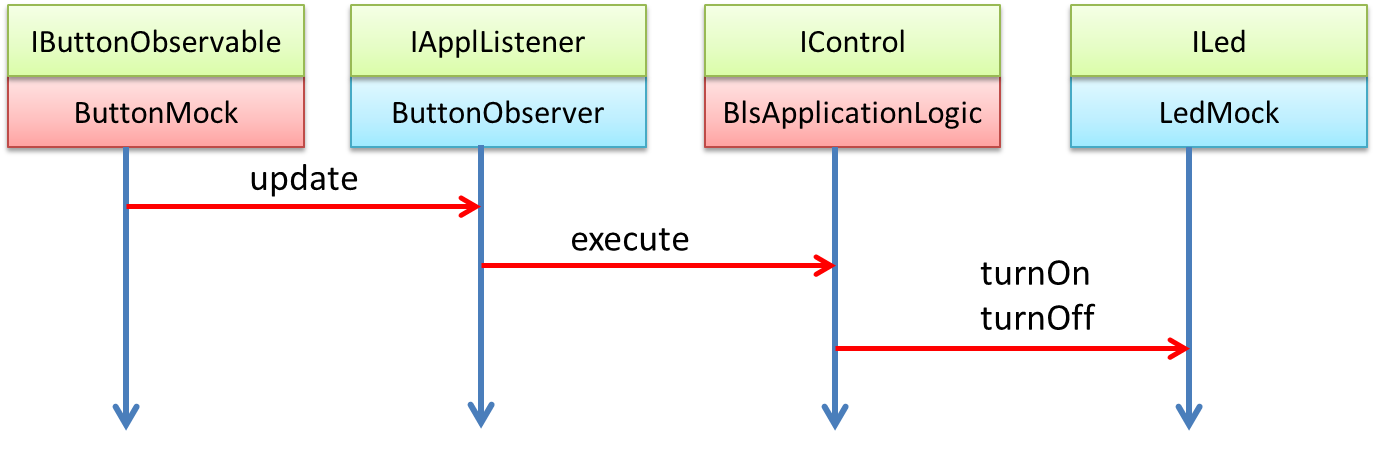
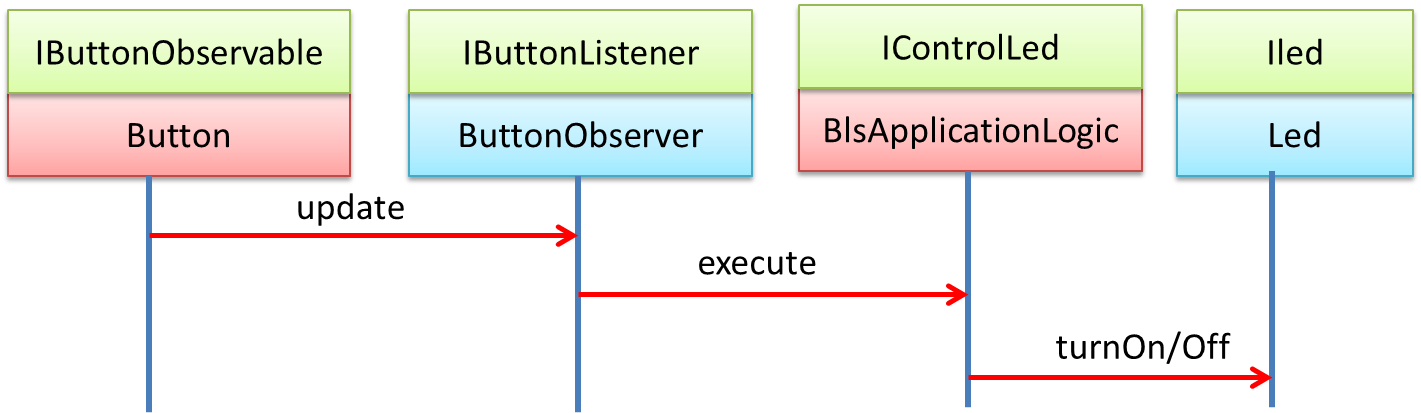
bls framework jacoco

diff --git a/it.unibo.bls19Local/userDocs/Lab3.html b/it.unibo.bls19Local/userDocs/Lab3.html
@@ -125,7 +125,7 @@ table, th, td {
 
 <div class="body"> 
 
-<h1>72939 - LAB3 | A ButtonLedSystem application framework</h1> 
+<h1>72939 - LAB3 | A ButtonLedSystem framework</h1> 
 <a href="http://infolab.ingce.unibo.it/iss2018/it.unibo.issMaterial/issdocs/Material/LectureBologna1819.html" target="isslm">LabSS-lectures site</a></font> 
 
 <h2>REQUIREMENTS</h2>
@@ -170,6 +170,8 @@ is also defined as an <em>observer</em>.
 <ul>
 <li><a href="../src/main/java/it/unibo/blsFramework/interfaces/IButtonModel.java" target="code">IButtonModel</a></li>
 <li><a href="../src/main/java/it/unibo/blsFramework/interfaces/ILedModel.java" target="code">ILedModel</a></li>
+<li><a href="../src/main/java/it/unibo/blsFramework/interfaces/IAppLogic.java" target="code">IAppLogic</a></li>
+<li><a href="../src/main/java/it/unibo/blsFramework/interfaces/IApplListener.java" target="code">IApplListener</a></li>
 <li><a href="../src/main/java/it/unibo/blsFramework/interfaces/IBlsFramework.java" target="code">IBlsFramework</a></li>
 </ul>	
 	</td>
@@ -231,7 +233,7 @@ of a state change in a  <tt>concrete Button</tt>.
  <a href="../src/main/java/it/unibo/blsFramework/concreteDevices/LedObserver.java" target="code">LedObserver</a>
  as an <a href="https://en.wikipedia.org/wiki/Adapter_pattern">adapter</a> between the 
 <a href="../src/main/java/it/unibo/blsFramework/models/LedModel.java" target="code">LedModel</a> a concrete <tt>Led</tt>;</li>
- <li>we can reuse the application logic 
+ <li>we can also reuse the application logic 
 <a href="../src/main/java/it/unibo/blsFramework/applLogic/BlsApplicationLogic.java" target="code">BlsApplicationLogic</a> 
 with little change, since it must make reference to a 
 <a href="../src/main/java/it/unibo/blsFramework/interfaces/ILedModel.java" target="code">ILedModel</a> rather than  to a 
@@ -239,10 +241,7 @@ with little change, since it must make reference to a
  
  </ul>
  
- 
- 
- 
- 
+  
  <h2>THE NEW FEATURES</h2>
 The main result of our model-based re-factoring of the <tt>BLS</tt> system can be summarized as follows:
 
@@ -293,7 +292,28 @@ public static void main(String[] args) {
 	}
 </pre>
   
+ <h2>TESTING / JaCoCo</h2>
+A possible integration test is reported in
+	<a href="../src/test/java/it/unibo/bls/integration/TestBlsFramework.java" target="code">TestBlsFramework.java</a>
+<br/><br/>	
+Execute <bc>gradle test</bc> and look at 
+	<a href="../build/reports/tests/test/index.html" target="code">build/report/tests/test/index.html</a>	
+	
+	
+<h3>JaCoCo</h3>
+<ol>
+<li>In <a href="../build.gradle" target="code">build.gradle</a> add the 
+<a href="https://docs.gradle.org/current/userguide/jacoco_plugin.html" target="webb">JaCoCo plugin</a> 
+(<a href="https://www.youtube.com/watch?v=ieYs0hkogVY">Video on JaCoCo</a>)</li>
+<li>The command <bc>gradle build</bc> executes the tests and <tt>JaCoCo</tt> create the binary file <tt>text.exec</tt> in <tt>build/jacoco</tt></li>
 
+<li>Execute <bc>gradle build jacocoTestReport</bc> to generate a readable report and look at
+<a href="../build/reports/jacoco/test/html/index.html" target="code">build/reports/jacoco/test/html/index.html</a>
+
+</li>
+</ol>
+	
+	<br/><br/>
 	
 </div>  
 

diff --git a/it.unibo.bls19Local/userDocs/Lab1.html b/it.unibo.bls19Local/userDocs/Lab1.html
@@ -214,9 +214,9 @@ Led state=true
 	<ul>
 	<li>Execute <bc>gradle test</bc> and look at 
 	<a href="../build/reports/tests/test/index.html" target="code">build/report/tests/test/index.html</a></li>
-	<li>Unit testing: <a href="../src/test/java/it/unibo/bls/components/TestLed.java" target="code">TestLed.java</a>,
+	<li><em>Unit testing</em>: <a href="../src/test/java/it/unibo/bls/components/TestLed.java" target="code">TestLed.java</a>,
 	<a href="../src/test/java/it/unibo/bls/components/TestButton.java" target="code">TestButton.java</a></li>
-	<li>Integration testing: <a href="../src/test/java/it/unibo/bls/integration/TestBlsMock.java" target="code">TestBlsMock.java</a> </li>
+	<li><em>Integration testing</em>: <a href="../src/test/java/it/unibo/bls/integration/TestBlsMock.java" target="code">TestBlsMock.java</a> </li>
 	</ul>
 
 	<h3>Looking at the code</h3>
@@ -269,7 +269,7 @@ Led state=true
 		<li><em>Observers</em>: The <tt>Application logic</tt> is put in execution by a component 
 		(<a href="../src/main/java/it/unibo/bls/listener/ButtonObserver.java" target="code">ButtonObserver</a>) 
 		that acts as an observer of the state of the <tt>Button</tt>, by implementing the interface 
-		<a href="../src/main/java/it/unibo/bls/interfaces/IApplListener.java" target="code">IApplListener</a> that extends 
+		<a href="../src/main/java/it/unibo/bls/interfaces/IButtonListener.java" target="code">IButtonListener</a> that extends 
 		<a href="../src/main/java/it/unibo/bls/interfaces/IObserver.java" target="code">IObserver</a> 
 		(a warpper of the built-in <tt>java.util.Observer</tt>).</li>
 		<li><em>Dependency injection</em>:The final software system is created by

diff --git a/it.unibo.bls19Local/userDocs/Lab2.html b/it.unibo.bls19Local/userDocs/Lab2.html
@@ -155,7 +155,7 @@ of that system, to recall its properties from three different points of view:  <
 <h4>A logic architecture</h4>
 As already, proposed in <a href="Lab1.html" target="info">Lab1.html</a>, the following <tt>UML</tt> interaction diagram 
 can give us a summary of our model of the current software system:
-<center><img src="./blsLogic0.png" alt="gradlew" width="60%" height="60%"></center>
+<center><img src="./bls0.png" alt="blsLogic0" width="60%" height="60%"></center>
 
 This model can be adopted as a representation of the <b>logic architecture</b> of our <tt>BLS</tt> system. 
 It is technology-aware (since it is based on objects) but it is also quite technology-independent since there is no
@@ -313,7 +313,7 @@ can be re-used - by means of the <tt>Java</tt> <em>inheritance</em> - in order t
 be reused - by means of the <tt>Java</tt> <em>inheritance</em> - to build the <tt>BLS</tt> system. The only thing to do
 is to override the method <bc>setDeviceTypes</bc>.
 </li>
-
+<br/><br/>
 Now, we could consider the possibility to re-factor the system, so to define a <em>reusable framework</em> for <tt>BLS</tt> applications
 that can be specialized without recurring to  inheritance.
 </ul>

diff --git a/it.unibo.bls19Local/src/main/java/it/unibo/bls/appl/MainBlsMockBase.java b/it.unibo.bls19Local/src/main/java/it/unibo/bls/appl/MainBlsMockBase.java
@@ -8,13 +8,13 @@ import it.unibo.bls.interfaces.*;
 import it.unibo.bls.kotlin.applLogic.BlsApplicationLogic;	//KOTLIN IMPL
 import it.unibo.bls.listener.ButtonObserver;
 import it.unibo.bls.utils.Utils;
-import it.unibo.bls.interfaces.IApplListener;
+import it.unibo.bls.interfaces.IButtonListener;
 
 
 public class MainBlsMockBase  {
 	protected IButtonObservable btn;
 	protected ILed led;
-	protected IApplListener buttonObserver;
+	protected IButtonListener buttonObserver;
 	protected IControlLed applLogic;
 	protected DeviceFactory devFactory = new DeviceFactory();
 	protected LedType ledType ;
@@ -59,7 +59,7 @@ public class MainBlsMockBase  {
 	public ILed getLed(){
 		return led;
 	}
-	public IApplListener getButtonObserver(){
+	public IButtonListener getButtonObserver(){
 		return buttonObserver;
 	}
 	public IControlLed getApplLogic(){

diff --git a/it.unibo.bls19Local/src/main/java/it/unibo/bls/listener/ButtonObserver.java b/it.unibo.bls19Local/src/main/java/it/unibo/bls/listener/ButtonObserver.java
@@ -1,10 +1,10 @@
 package it.unibo.bls.listener;
 
-import it.unibo.bls.interfaces.IApplListener;
+import it.unibo.bls.interfaces.IButtonListener;
 import it.unibo.bls.interfaces.IControlLed;
 import java.util.Observable;
 
-public class ButtonObserver  implements IApplListener {
+public class ButtonObserver  implements IButtonListener {
 private IControlLed controller;
 	private int count   = 0;
 //Factory method
@@ -21,7 +21,7 @@ private IControlLed controller;
 		return count;
 	}
 
-	@Override  //from IApplListener IObserver -> Observer
+	@Override  //from IButtonListener IObserver -> Observer
 	public void update( Observable source, Object state ){
 		count++;
 		//System.out.println("ButtonListener update | state=" + state + " controller=" + controller);

diff --git a/it.unibo.bls19Local/src/test/java/it/unibo/bls/components/TestButton.java b/it.unibo.bls19Local/src/test/java/it/unibo/bls/components/TestButton.java
@@ -1,7 +1,7 @@
 package it.unibo.bls.components;
 
 import static org.junit.Assert.*;
-
+import it.unibo.bls.interfaces.IButtonListener;
 import it.unibo.bls.interfaces.IButtonObservable;
 import it.unibo.bls.interfaces.IControlLed;
 import it.unibo.bls.listener.ButtonObserver;
@@ -15,7 +15,7 @@ public class TestButton {
 	public void testTheButtonMock(){
 		IButtonObservable button  = ButtonMock.createButton();
 		IControlLed applLogic        = new BlsApplicationLogic();
-		IApplListener buttonObs   = ButtonObserver.createButtonListener( );
+		IButtonListener buttonObs   = ButtonObserver.createButtonListener( );
 		buttonObs.setControl( applLogic );
 		button.addObserver( buttonObs );	//Starts
 		Utils.delay(4000);				//Give the time to work

diff --git a/it.unibo.bls19Local/src/test/java/it/unibo/bls/integration/TestBlsMock.java b/it.unibo.bls19Local/src/test/java/it/unibo/bls/integration/TestBlsMock.java
@@ -3,6 +3,7 @@ package it.unibo.bls.integration;
 import static org.junit.Assert.assertTrue;
 import it.unibo.bls.appl.MainBlsMockBase;
 import it.unibo.bls.interfaces.IControlLed;
+import it.unibo.bls.interfaces.IButtonListener;
 import it.unibo.bls.interfaces.ILed;
 import it.unibo.bls.utils.Utils;
 import org.junit.Before;
@@ -19,7 +20,7 @@ private MainBlsMockBase sys;
 	@Test
 	public void testSystemLogic(){
  		ILed led                     = sys.getLed();
-		IApplListener listener       = sys.getButtonObserver();
+		IButtonListener listener     = sys.getButtonObserver();
 		IControlLed control          = sys.getApplLogic();
 		Utils.delay(4000);
  		assertTrue( listener.getNumOfClicks()== control.getNumOfCalls()  );

diff --git a/it.unibo.bls19Local/src/test/java/it/unibo/bls/integration/TestBlsFramework.java b/it.unibo.bls19Local/src/test/java/it/unibo/bls/integration/TestBlsFramework.java
@@ -28,8 +28,11 @@ private IBlsFramework sys;
  		ILedModel led              = sys.getLedModel();
 		IApplListener buttonObs    = sys.getButtonObserver();
 		IAppLogic appLogic         = sys.getApplLogic();
-		Utils.delay(4000);
- 		assertTrue( appLogic.getNumOfCalls()== appLogic.getNumOfCalls()  );
+		for( int i=1; i<= 5; i++){
+			buttonObs.update(null,"click");
+			Utils.delay(500);
+			}
+ 		assertTrue( buttonObs.getNumOfClicks()== appLogic.getNumOfCalls()  );
 	}
 
 }

diff --git a/it.unibo.bls19Local/src/main/java/it/unibo/blsFramework/listener/ButtonObserver.java b/it.unibo.bls19Local/src/main/java/it/unibo/blsFramework/listener/ButtonObserver.java
@@ -21,7 +21,7 @@ private IAppLogic controller;
 		return count;
 	}
 
-	@Override  //from IApplListener IObserver -> Observer
+	@Override  //from IButtonListener IObserver -> Observer
 	public void update( Observable source, Object state ){
 		count++;
 		//System.out.println("ButtonListener update | state=" + state + " controller=" + controller);

diff --git a/it.unibo.bls19Local/src/main/java/it/unibo/blsFramework/models/ButtonModel.java b/it.unibo.bls19Local/src/main/java/it/unibo/blsFramework/models/ButtonModel.java
@@ -3,6 +3,7 @@ package it.unibo.blsFramework.models;
 import java.util.Observable;
 
 import it.unibo.bls.interfaces.IObserver;
+import it.unibo.blsFramework.interfaces.IApplListener;
 import it.unibo.blsFramework.interfaces.IButtonModel;
 
 public class ButtonModel extends Observable implements IButtonModel {

diff --git a/it.unibo.bls19Local/src/main/java/it/unibo/bls/interfaces/IButtonListener.java b/it.unibo.bls19Local/src/main/java/it/unibo/bls/interfaces/IButtonListener.java
@@ -2,7 +2,7 @@ package it.unibo.bls.interfaces;
 
 import it.unibo.blsFramework.interfaces.IAppLogic;
 
-public interface IApplListener extends IObserver{
+public interface IButtonListener extends IObserver{
     public void setControl(IControlLed ctrl);
     public int getNumOfClicks();
 }
